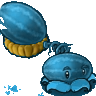
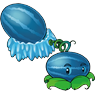
feat(sprite): replace melon-pult & winter-melon with wiki.gg HD originals (v3.3.9-shield-tophole -> v3.3.10-melon-hd)
- Replace assets/images/Plants/MelonPult/MelonPult.png with official
  Transparent Melon-pult (wiki.gg Special:FilePath/Melon-pulthd.png)
  cropped to bbox, scaled to h=88 and bottom-aligned (base y=91) on
  the 96x96 canvas. Same pose, same footprint, sharper edges.
- Replace assets/images/Plants/WinterMelon/WinterMelon.png with
  official HD Winter Melon (wiki.gg Special:FilePath/HD%20Winter%20Melon.png)
  adapted with the same method. Winter-melon is now uniformly blue
  with frost (matching PVZ1), no green tint residue from the old
  blue-filter approach.
- Touches 4 in-game surfaces at once: planted sprite, fusion recipe
  result image, recipe book overlay (cattail+melon, cattail+wintermelon),
  and seed chooser card.
- Projectile art (MelonPult/Melon.png 50x40, MelonPult/WinterMelon.png
  50x40, MelonPult/WinterMelon_small.png 32x32, MelonPult/Melon_small.png)
  unchanged.
- Sharpness (Laplacian variance of luminance edges):
  *   MelonPult:   2887.6 -> 3039.6  (+5%)
  *   WinterMelon: 2858.3 -> 3620.1  (+27%)
- Bump cache-buster ?v=1788689333 -> ?v=1788695989 across 5 files
  (index.html + 4 JS modules) and update version.json (feature text +
  version label v3.3.10-melon-hd, build 2026-09-06).

diff --git a/pvz-web/js/GameLoop.js b/pvz-web/js/GameLoop.js
@@ -227,32 +227,32 @@ class Game {
     initUI() {
         // Just define the seeds, don't populate the top bar yet
         this.seeds = [
-            { type: 'sunflower', cost: 50, cooldown: 7.5, img: 'assets/images/Card/Plants/SunFlower.png?v=1788689333' },
-            { type: 'twinsunflower', cost: 150, cooldown: 50, img: 'assets/images/Card/Plants/TwinSunflower.png?v=1788689333' },
-            { type: 'sunshroom', cost: 25, cooldown: 7.5, img: 'assets/images/Card/Plants/SunShroom.png?v=1788689333' },
-            { type: 'peashooter', cost: 100, cooldown: 7.5, img: 'assets/images/Card/Plants/Peashooter.png?v=1788689333' },
-            { type: 'repeater', cost: 200, cooldown: 7.5, img: 'assets/images/Card/Plants/Repeater.png?v=1788689333' },
-            { type: 'threepeater', cost: 300, cooldown: 7.5, img: 'assets/images/Card/Plants/Threepeater.png?v=1788689333' },
-            { type: 'gatlingpea', cost: 250, cooldown: 50, img: 'assets/images/Card/Plants/GatlingPea.png?v=1788689333' },
-            { type: 'snowpea', cost: 175, cooldown: 7.5, img: 'assets/images/Card/Plants/SnowPea.png?v=1788689333' },
-            { type: 'splitpea', cost: 125, cooldown: 7.5, img: 'assets/images/Card/Plants/SplitPea.png?v=1788689333' },
-            { type: 'torchwood', cost: 175, cooldown: 7.5, img: 'assets/images/Card/Plants/Torchwood.png?v=1788689333' },
-            { type: 'wallnut', cost: 50, cooldown: 30, img: 'assets/images/Card/Plants/WallNut.png?v=1788689333' },
-            { type: 'cherrybomb', cost: 150, cooldown: 50, img: 'assets/images/Card/Plants/CherryBomb.png?v=1788689333' },            { type: 'squash', cost: 50, cooldown: 30, img: 'assets/images/Card/Plants/Squash.png?v=1788689333' },
-            { type: 'jalapeno', cost: 125, cooldown: 50, img: 'assets/images/Card/Plants/Jalapeno.png?v=1788689333' },
-            { type: 'potatomine', cost: 25, cooldown: 30, img: 'assets/images/Card/Plants/PotatoMine.png?v=1788689333' },
-            { type: 'chomper', cost: 150, cooldown: 7.5, img: 'assets/images/Card/Plants/Chomper.png?v=1788689333' },
-            { type: 'tallnut', cost: 125, cooldown: 30, img: 'assets/images/Card/Plants/TallNut.png?v=1788689333' },
-            { type: 'puffshroom', cost: 0, cooldown: 7.5, img: 'assets/images/Card/Plants/PuffShroom.png?v=1788689333' },
-            { type: 'fumeshroom', cost: 75, cooldown: 7.5, img: 'assets/images/Card/Plants/FumeShroom.png?v=1788689333' },
-            { type: 'scaredyshroom', cost: 25, cooldown: 7.5, img: 'assets/images/Card/Plants/ScaredyShroom.png?v=1788689333' },
-            { type: 'gloomshroom', cost: 150, cooldown: 7.5, img: 'assets/images/Card/Plants/GloomShroom.png?v=1788689333' },
-            { type: 'spikerock', cost: 125, cooldown: 7.5, img: 'assets/images/Card/Plants/Spikerock.png?v=1788689333' },
-            { type: 'cattail', cost: 225, cooldown: 7.5, img: 'assets/images/Card/Plants/Cattail.png?v=1788689333' },
-            { type: 'melonpult', cost: 300, cooldown: 7.5, img: 'assets/images/Card/Plants/MelonPult.png?v=1788689333' },{ type: 'iceshroom', cost: 75, cooldown: 50, img: 'assets/images/Card/Plants/IceShroom.png?v=1788689333' },
-            { type: 'doomshroom', cost: 125, cooldown: 50, img: 'assets/images/Card/Plants/DoomShroom.png?v=1788689333' },
-            { type: 'spikeweed', cost: 100, cooldown: 7.5, img: 'assets/images/Card/Plants/Spikeweed.png?v=1788689333' },
-            { type: 'garlic', cost: 50, cooldown: 7.5, img: 'assets/images/Card/Plants/Garlic.png?v=1788689333' }
+            { type: 'sunflower', cost: 50, cooldown: 7.5, img: 'assets/images/Card/Plants/SunFlower.png?v=1788695989' },
+            { type: 'twinsunflower', cost: 150, cooldown: 50, img: 'assets/images/Card/Plants/TwinSunflower.png?v=1788695989' },
+            { type: 'sunshroom', cost: 25, cooldown: 7.5, img: 'assets/images/Card/Plants/SunShroom.png?v=1788695989' },
+            { type: 'peashooter', cost: 100, cooldown: 7.5, img: 'assets/images/Card/Plants/Peashooter.png?v=1788695989' },
+            { type: 'repeater', cost: 200, cooldown: 7.5, img: 'assets/images/Card/Plants/Repeater.png?v=1788695989' },
+            { type: 'threepeater', cost: 300, cooldown: 7.5, img: 'assets/images/Card/Plants/Threepeater.png?v=1788695989' },
+            { type: 'gatlingpea', cost: 250, cooldown: 50, img: 'assets/images/Card/Plants/GatlingPea.png?v=1788695989' },
+            { type: 'snowpea', cost: 175, cooldown: 7.5, img: 'assets/images/Card/Plants/SnowPea.png?v=1788695989' },
+            { type: 'splitpea', cost: 125, cooldown: 7.5, img: 'assets/images/Card/Plants/SplitPea.png?v=1788695989' },
+            { type: 'torchwood', cost: 175, cooldown: 7.5, img: 'assets/images/Card/Plants/Torchwood.png?v=1788695989' },
+            { type: 'wallnut', cost: 50, cooldown: 30, img: 'assets/images/Card/Plants/WallNut.png?v=1788695989' },
+            { type: 'cherrybomb', cost: 150, cooldown: 50, img: 'assets/images/Card/Plants/CherryBomb.png?v=1788695989' },            { type: 'squash', cost: 50, cooldown: 30, img: 'assets/images/Card/Plants/Squash.png?v=1788695989' },
+            { type: 'jalapeno', cost: 125, cooldown: 50, img: 'assets/images/Card/Plants/Jalapeno.png?v=1788695989' },
+            { type: 'potatomine', cost: 25, cooldown: 30, img: 'assets/images/Card/Plants/PotatoMine.png?v=1788695989' },
+            { type: 'chomper', cost: 150, cooldown: 7.5, img: 'assets/images/Card/Plants/Chomper.png?v=1788695989' },
+            { type: 'tallnut', cost: 125, cooldown: 30, img: 'assets/images/Card/Plants/TallNut.png?v=1788695989' },
+            { type: 'puffshroom', cost: 0, cooldown: 7.5, img: 'assets/images/Card/Plants/PuffShroom.png?v=1788695989' },
+            { type: 'fumeshroom', cost: 75, cooldown: 7.5, img: 'assets/images/Card/Plants/FumeShroom.png?v=1788695989' },
+            { type: 'scaredyshroom', cost: 25, cooldown: 7.5, img: 'assets/images/Card/Plants/ScaredyShroom.png?v=1788695989' },
+            { type: 'gloomshroom', cost: 150, cooldown: 7.5, img: 'assets/images/Card/Plants/GloomShroom.png?v=1788695989' },
+            { type: 'spikerock', cost: 125, cooldown: 7.5, img: 'assets/images/Card/Plants/Spikerock.png?v=1788695989' },
+            { type: 'cattail', cost: 225, cooldown: 7.5, img: 'assets/images/Card/Plants/Cattail.png?v=1788695989' },
+            { type: 'melonpult', cost: 300, cooldown: 7.5, img: 'assets/images/Card/Plants/MelonPult.png?v=1788695989' },{ type: 'iceshroom', cost: 75, cooldown: 50, img: 'assets/images/Card/Plants/IceShroom.png?v=1788695989' },
+            { type: 'doomshroom', cost: 125, cooldown: 50, img: 'assets/images/Card/Plants/DoomShroom.png?v=1788695989' },
+            { type: 'spikeweed', cost: 100, cooldown: 7.5, img: 'assets/images/Card/Plants/Spikeweed.png?v=1788695989' },
+            { type: 'garlic', cost: 50, cooldown: 7.5, img: 'assets/images/Card/Plants/Garlic.png?v=1788695989' }
         ];
         // The top bar will be populated in startGame() after selection
     }
@@ -284,7 +284,7 @@ class Game {
             { a: 'puffshroom', b: 'sunflower', result: '阳光菇', img: 'assets/images/Plants/SunShroom/SunShroom.gif', css: false },
             { a: 'puffshroom', b: 'peashooter', result: '胆小菇', img: 'assets/images/Plants/ScaredyShroom/ScaredyShroom.gif', css: false },
             { a: 'wallnut', b: 'jalapeno', result: '火炬树桩', img: 'assets/images/Plants/Torchwood/Torchwood.gif', css: false },
-            { a: 'chomper', b: 'tallnut', result: '西瓜投手', img: 'assets/images/Plants/MelonPult/MelonPult.png?v=1788689333', css: false },
+            { a: 'chomper', b: 'tallnut', result: '西瓜投手', img: 'assets/images/Plants/MelonPult/MelonPult.png?v=1788695989', css: false },
             { a: 'peashooter', b: 'sunflower', result: '豌豆向日葵', base: 'assets/images/Plants/SunFlower/SunFlower1.gif', over: 'assets/images/Plants/Peashooter/Peashooter.gif', overClip: 'polygon(0 0, 100% 0, 100% 65%, 0 65%)', overTransform: 'translate(0px, -20px) scale(1.0)' },
             { a: 'peashooter', b: 'wallnut', result: '坚果射手', base: 'assets/images/Plants/WallNut/WallNut.gif', over: 'assets/images/Plants/Peashooter/Peashooter.gif', overClip: 'polygon(0 0, 100% 0, 100% 65%, 0 65%)', overTransform: 'translate(5px, -15px) scale(1.0)' },
             { a: 'snowpea', b: 'cherrybomb', result: '寒冰炸弹', img: 'assets/images/Plants/CherryBomb/CherryBomb.gif', filter: 'hue-rotate(180deg) saturate(1.5)', css: false },
@@ -293,7 +293,7 @@ class Game {
             { a: 'snowpea', b: 'wallnut', result: '寒冰坚果', img: 'assets/images/Plants/WallNut/WallNut.gif', filter: 'hue-rotate(180deg) saturate(1.5) brightness(1.2)', css: false },
             { a: 'peashooter', b: 'cherrybomb', result: '樱桃射手', img: 'assets/images/Plants/Peashooter/Peashooter.gif', filter: 'hue-rotate(-45deg) saturate(2.0)', css: false },
             { a: 'sunflower', b: 'doomshroom', result: '毁灭向日葵', img: 'assets/images/Plants/SunFlower/SunFlower1.gif', filter: 'grayscale(0.8) brightness(0.6) sepia(1) hue-rotate(240deg) saturate(3)', css: false },
-            { a: 'melonpult', b: 'iceshroom', result: '冰西瓜投手', img: 'assets/images/Plants/WinterMelon/WinterMelon.png?v=1788689333', css: false },
+            { a: 'melonpult', b: 'iceshroom', result: '冰西瓜投手', img: 'assets/images/Plants/WinterMelon/WinterMelon.png?v=1788695989', css: false },
             { a: 'repeater', b: 'spikeweed', result: '猫尾草', img: 'assets/images/Plants/Cattail/Cattail.gif', css: false },
             { a: 'fumeshroom', b: 'fumeshroom', result: '忧郁菇', img: 'assets/images/Plants/GloomShroom/GloomShroom.gif', css: false },
             { a: 'spikeweed', b: 'spikeweed', result: '钢地刺', img: 'assets/images/Plants/Spikerock/Spikerock.gif', css: false },
@@ -303,8 +303,8 @@ class Game {
             { a: 'splitpea', b: 'sunflower', result: '杨桃', img: 'assets/images/Plants/Starfruit/Starfruit.gif', css: false },
             { a: 'puffshroom', b: 'garlic', result: '魅惑菇', img: 'assets/images/Plants/HypnoShroom/HypnoShroom.gif', css: false },
             { a: 'wallnut', b: 'tallnut', result: '南瓜壳（可套在任意植物上）', img: 'assets/images/Plants/PumpkinHead/PumpkinHead.gif', css: false },
-            { a: 'melonpult', b: 'cattail', result: '西瓜猫尾草', base: 'assets/images/Plants/Cattail/Cattail.gif', over: 'assets/images/Plants/MelonPult/MelonPult.png?v=1788689333', overTransform: 'translate(-5px, -30px) scale(0.7)' },
-            { a: 'wintermelon', b: 'cattail', result: '冰西瓜猫尾草', base: 'assets/images/Plants/Cattail/Cattail.gif', over: 'assets/images/Plants/WinterMelon/WinterMelon.png?v=1788689333', overTransform: 'translate(-5px, -30px) scale(0.7)' }
+            { a: 'melonpult', b: 'cattail', result: '西瓜猫尾草', base: 'assets/images/Plants/Cattail/Cattail.gif', over: 'assets/images/Plants/MelonPult/MelonPult.png?v=1788695989', overTransform: 'translate(-5px, -30px) scale(0.7)' },
+            { a: 'wintermelon', b: 'cattail', result: '冰西瓜猫尾草', base: 'assets/images/Plants/Cattail/Cattail.gif', over: 'assets/images/Plants/WinterMelon/WinterMelon.png?v=1788695989', overTransform: 'translate(-5px, -30px) scale(0.7)' }
         ];
         
         const list = document.getElementById('recipe-list');
@@ -335,8 +335,8 @@ class Game {
                     'fumeshroom': 'assets/images/Plants/FumeShroom/FumeShroom.gif',
                     'spikeweed': 'assets/images/Plants/Spikeweed/Spikeweed.gif',
                     'tallnut': 'assets/images/Plants/TallNut/TallNut.gif',
-                    'melonpult': 'assets/images/Plants/MelonPult/MelonPult.png?v=1788689333',
-                    'wintermelon': 'assets/images/Plants/WinterMelon/WinterMelon.png?v=1788689333',
+                    'melonpult': 'assets/images/Plants/MelonPult/MelonPult.png?v=1788695989',
+                    'wintermelon': 'assets/images/Plants/WinterMelon/WinterMelon.png?v=1788695989',
                     'cattail': 'assets/images/Plants/Cattail/Cattail.gif',
                     'gloomshroom': 'assets/images/Plants/GloomShroom/GloomShroom.gif',
                     'spikerock': 'assets/images/Plants/Spikerock/Spikerock.gif',

diff --git a/pvz-web/index.html b/pvz-web/index.html
@@ -4,7 +4,7 @@
     <meta charset="UTF-8" data-page-node-id="fvct4kKB77qx0aDFZg0TFG">
     <meta name="viewport" content="width=device-width, initial-scale=1.0" data-page-node-id="7cXFTDee52Hp5l8aujUlmz">
     <title>Plants vs Zombies - Web Clone</title>
-    <link rel="stylesheet" href="css/style.css?v=1788689333" data-page-node-id="Q5lrPWp6xqtldfdpxSWXxH">
+    <link rel="stylesheet" href="css/style.css?v=1788695989" data-page-node-id="Q5lrPWp6xqtldfdpxSWXxH">
 </head>
 <body data-page-node-id="lPg8spSQ9t6E6ZEWT8akzU">
     <div id="game-container" data-page-node-id="dle8H483OJAxh7uRwqXTVW">
@@ -258,16 +258,16 @@
                 });
         })();
     </script>
-    <script src="js/InputManager.js?v=1788689333"></script>
-    <script src="js/Board.js?v=1788689333"></script>
-    <script src="js/entities/Entity.js?v=1788689333"></script>
-    <script src="js/entities/Plant.js?v=1788689333"></script>
-    <script src="js/entities/Zombie.js?v=1788689333"></script>
-    <script src="js/entities/Projectile.js?v=1788689333"></script>
-    <script src="js/entities/Sun.js?v=1788689333"></script>
-    <script src="js/managers/WaveManager.js?v=1788689333"></script>
-    <script src="js/managers/CollisionManager.js?v=1788689333"></script>
-    <script src="js/managers/EventManager.js?v=1788689333"></script>
-    <script src="js/GameLoop.js?v=1788689333"></script>
+    <script src="js/InputManager.js?v=1788695989"></script>
+    <script src="js/Board.js?v=1788695989"></script>
+    <script src="js/entities/Entity.js?v=1788695989"></script>
+    <script src="js/entities/Plant.js?v=1788695989"></script>
+    <script src="js/entities/Zombie.js?v=1788695989"></script>
+    <script src="js/entities/Projectile.js?v=1788695989"></script>
+    <script src="js/entities/Sun.js?v=1788695989"></script>
+    <script src="js/managers/WaveManager.js?v=1788695989"></script>
+    <script src="js/managers/CollisionManager.js?v=1788695989"></script>
+    <script src="js/managers/EventManager.js?v=1788695989"></script>
+    <script src="js/GameLoop.js?v=1788695989"></script>
 </body>
 </html>

diff --git a/pvz-web/js/entities/Projectile.js b/pvz-web/js/entities/Projectile.js
@@ -19,12 +19,12 @@ class Projectile extends Entity {
             this.element.src = 'assets/images/Plants/ShroomBullet.gif';
             this.damage = 40;
         } else if (type === 'melon') {
-            this.element.src = 'assets/images/Plants/MelonPult/Melon.png?v=1788689333';
+            this.element.src = 'assets/images/Plants/MelonPult/Melon.png?v=1788695989';
             this.element.style.transform = 'scale(1.0)';
             this.element.style.borderRadius = '50%';
             this.damage = 60;
         } else if (type === 'wintermelon') {
-            this.element.src = 'assets/images/Plants/MelonPult/WinterMelon.png?v=1788689333';
+            this.element.src = 'assets/images/Plants/MelonPult/WinterMelon.png?v=1788695989';
             this.element.style.transform = 'scale(1.0)';
             this.element.style.borderRadius = '50%';
             this.damage = 60;
@@ -34,13 +34,13 @@ class Projectile extends Entity {
             this.damage = 20;
             this.speed = 400;
         } else if (type === 'cattail_melon') {
-            this.element.src = 'assets/images/Plants/MelonPult/Melon_small.png?v=1788689333';
+            this.element.src = 'assets/images/Plants/MelonPult/Melon_small.png?v=1788695989';
             this.element.style.transform = 'scale(0.8)';
             this.element.style.borderRadius = '50%';
             this.damage = 60;
             this.speed = 400;
         } else if (type === 'cattail_wintermelon') {
-            this.element.src = 'assets/images/Plants/MelonPult/WinterMelon_small.png?v=1788689333';
+            this.element.src = 'assets/images/Plants/MelonPult/WinterMelon_small.png?v=1788695989';
             this.element.style.transform = 'scale(0.8)';
             this.element.style.borderRadius = '50%';
             this.damage = 60;

diff --git a/pvz-web/js/entities/Plant.js b/pvz-web/js/entities/Plant.js
@@ -153,12 +153,12 @@ class Plant extends Entity {
             stat.hp = 300;
             stat.fireRate = 1.0;
             stat.fireTimer = 0;
-            stat.src = 'assets/images/Plants/MelonPult/MelonPult.png?v=1788689333';
+            stat.src = 'assets/images/Plants/MelonPult/MelonPult.png?v=1788695989';
         } else if (type === 'wintermelon') {
             stat.hp = 300;
             stat.fireRate = 1.0;
             stat.fireTimer = 0;
-            stat.src = 'assets/images/Plants/WinterMelon/WinterMelon.png?v=1788689333';
+            stat.src = 'assets/images/Plants/WinterMelon/WinterMelon.png?v=1788695989';
         }
         
 

diff --git a/pvz-web/js/InputManager.js b/pvz-web/js/InputManager.js
@@ -143,8 +143,8 @@ class InputManager {
             // Melon / Winter Melon 图是 PNG，其他植物是 GIF
             const isMelonSprite = imgName === 'MelonPult/MelonPult' || imgName === 'WinterMelon/WinterMelon';
             const url = isMelonSprite
-                ? `assets/images/Plants/${imgName}.png?v=1788689333`
-                : `assets/images/Plants/${imgName}.gif?v=1788689333`;
+                ? `assets/images/Plants/${imgName}.png?v=1788695989`
+                : `assets/images/Plants/${imgName}.gif?v=1788695989`;
             this.dragGhost.style.backgroundImage = `url('${url}')`;
         }
     }
